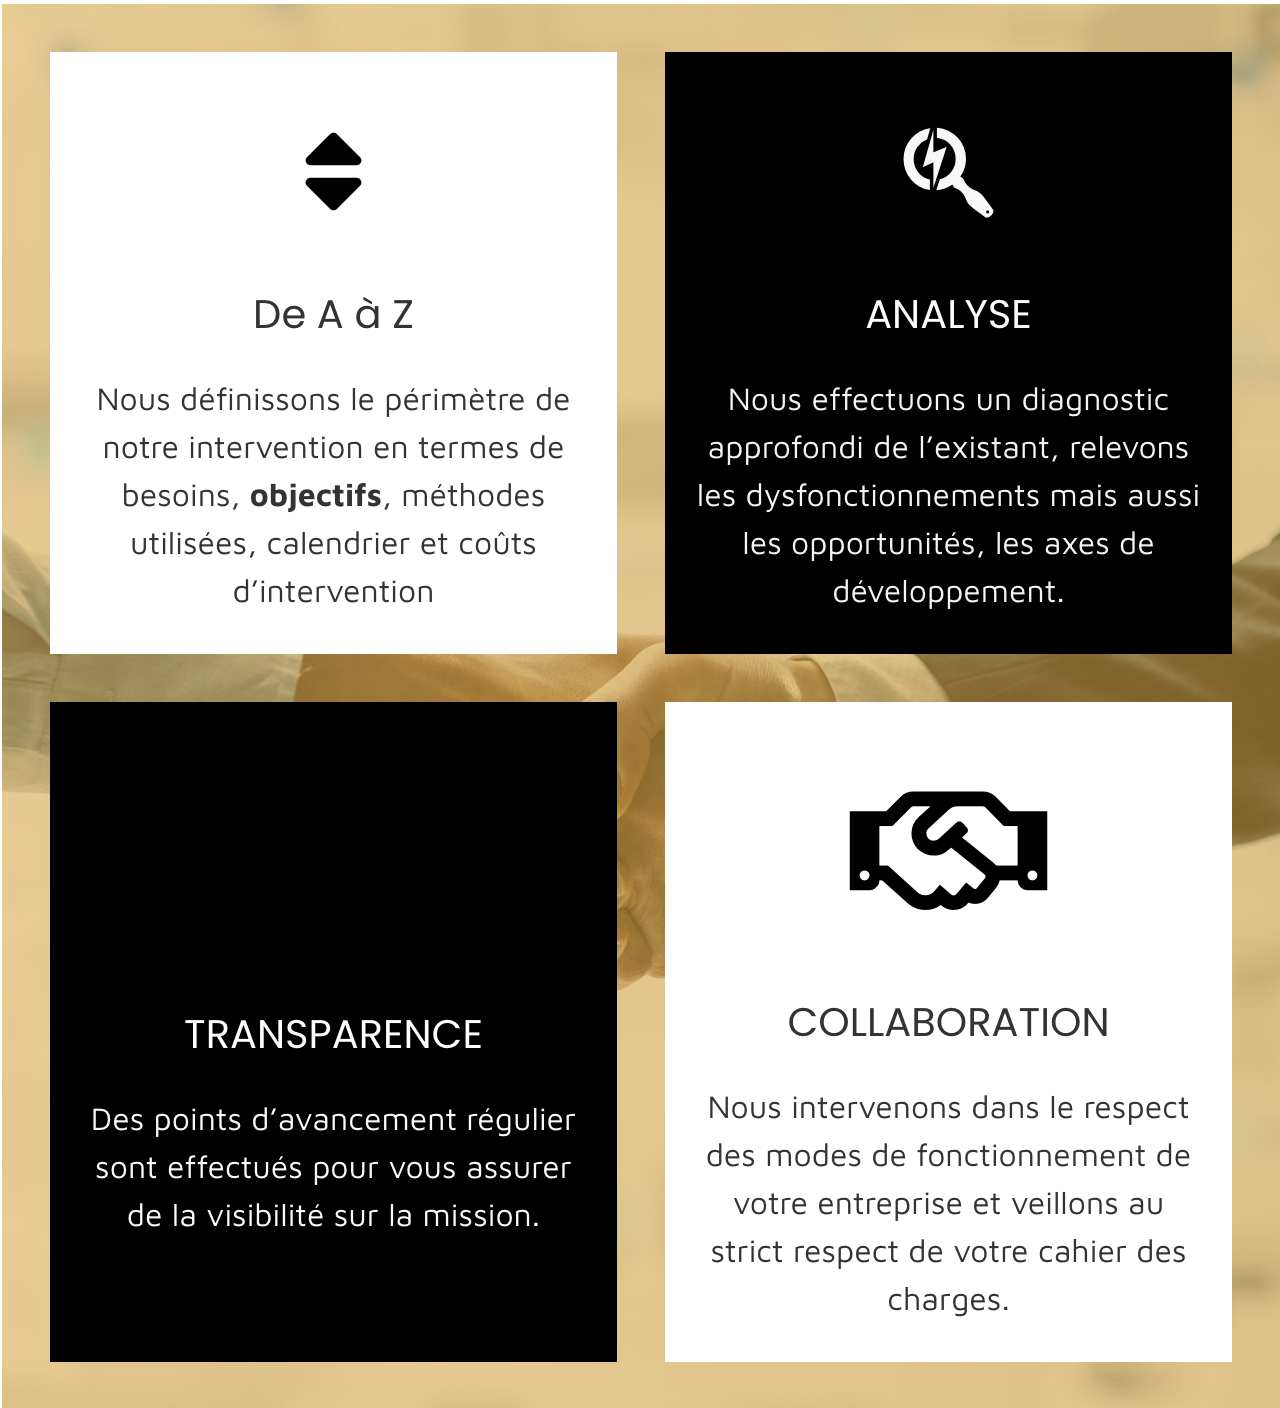
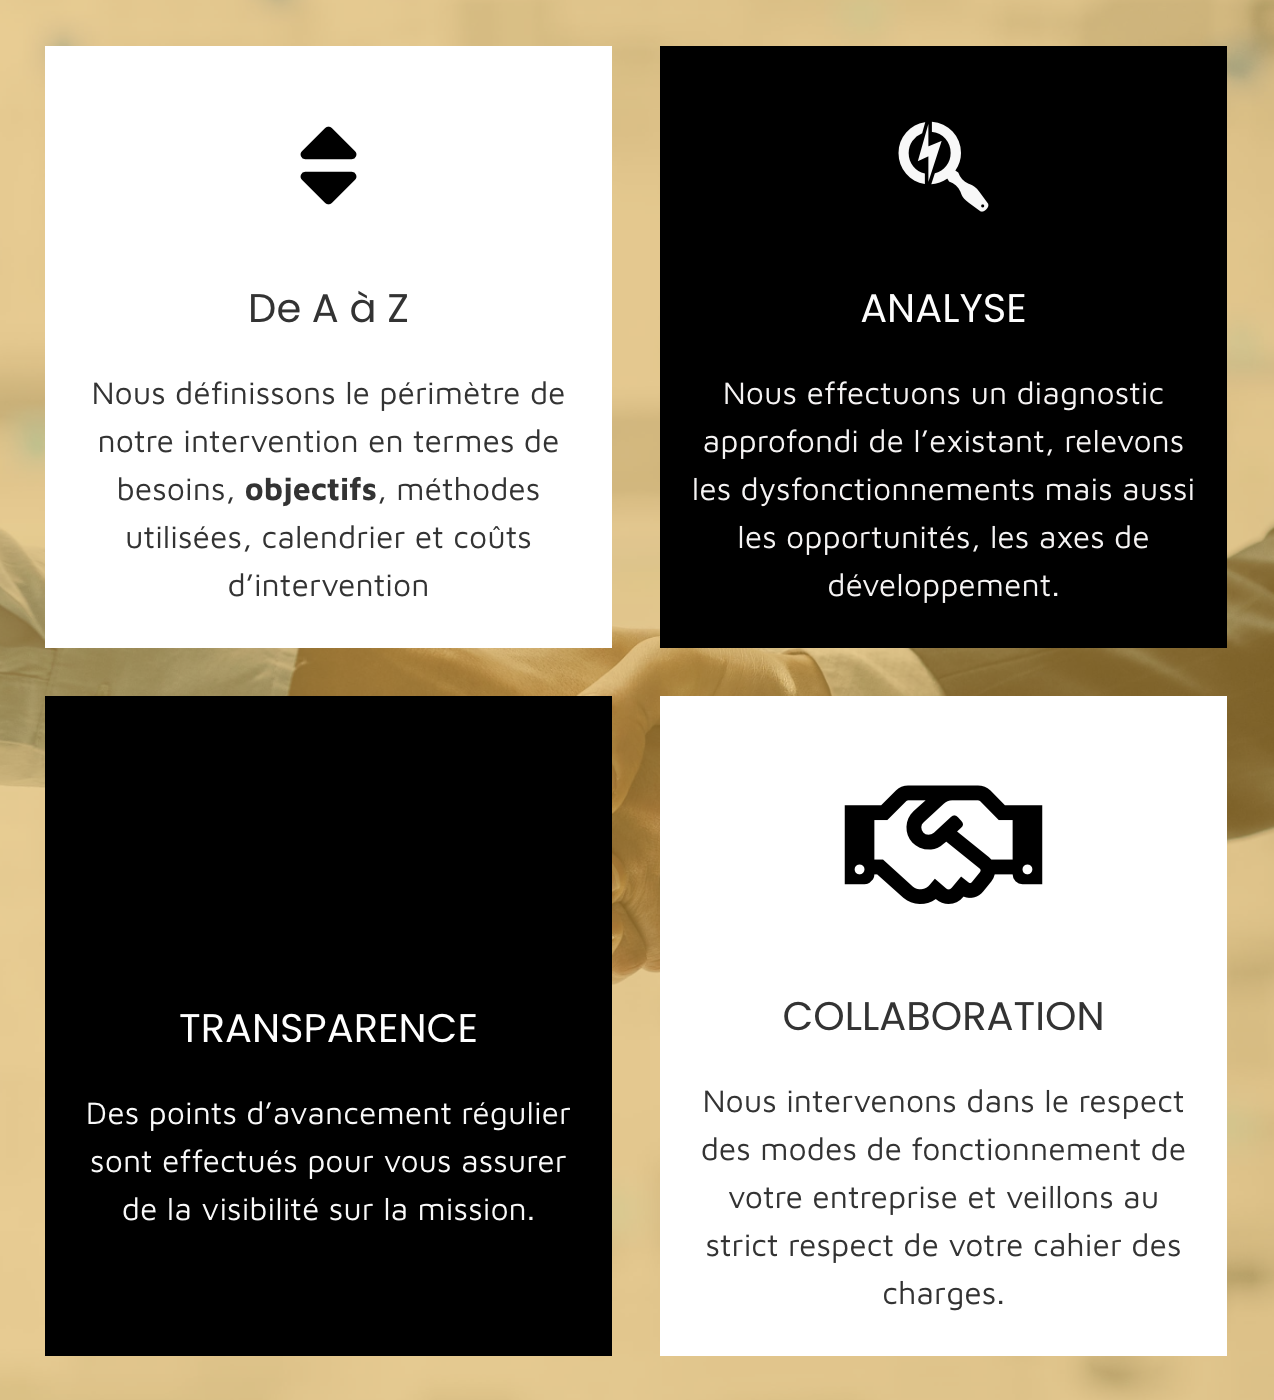
v2.1

diff --git a/src/components/PhilosophySection.js b/src/components/PhilosophySection.js
@@ -2,7 +2,7 @@ import React from "react"
 import styled from "styled-components"
 import { motion } from "framer-motion"
 import bg from "../img/bg-p1.png"
-import philosophie from "../img/test.png"
+import philosophie from "../img/Philosophie.png"
 
 import { Intro, Image } from "../Style"
 import { scrollReveal } from "../animation"
